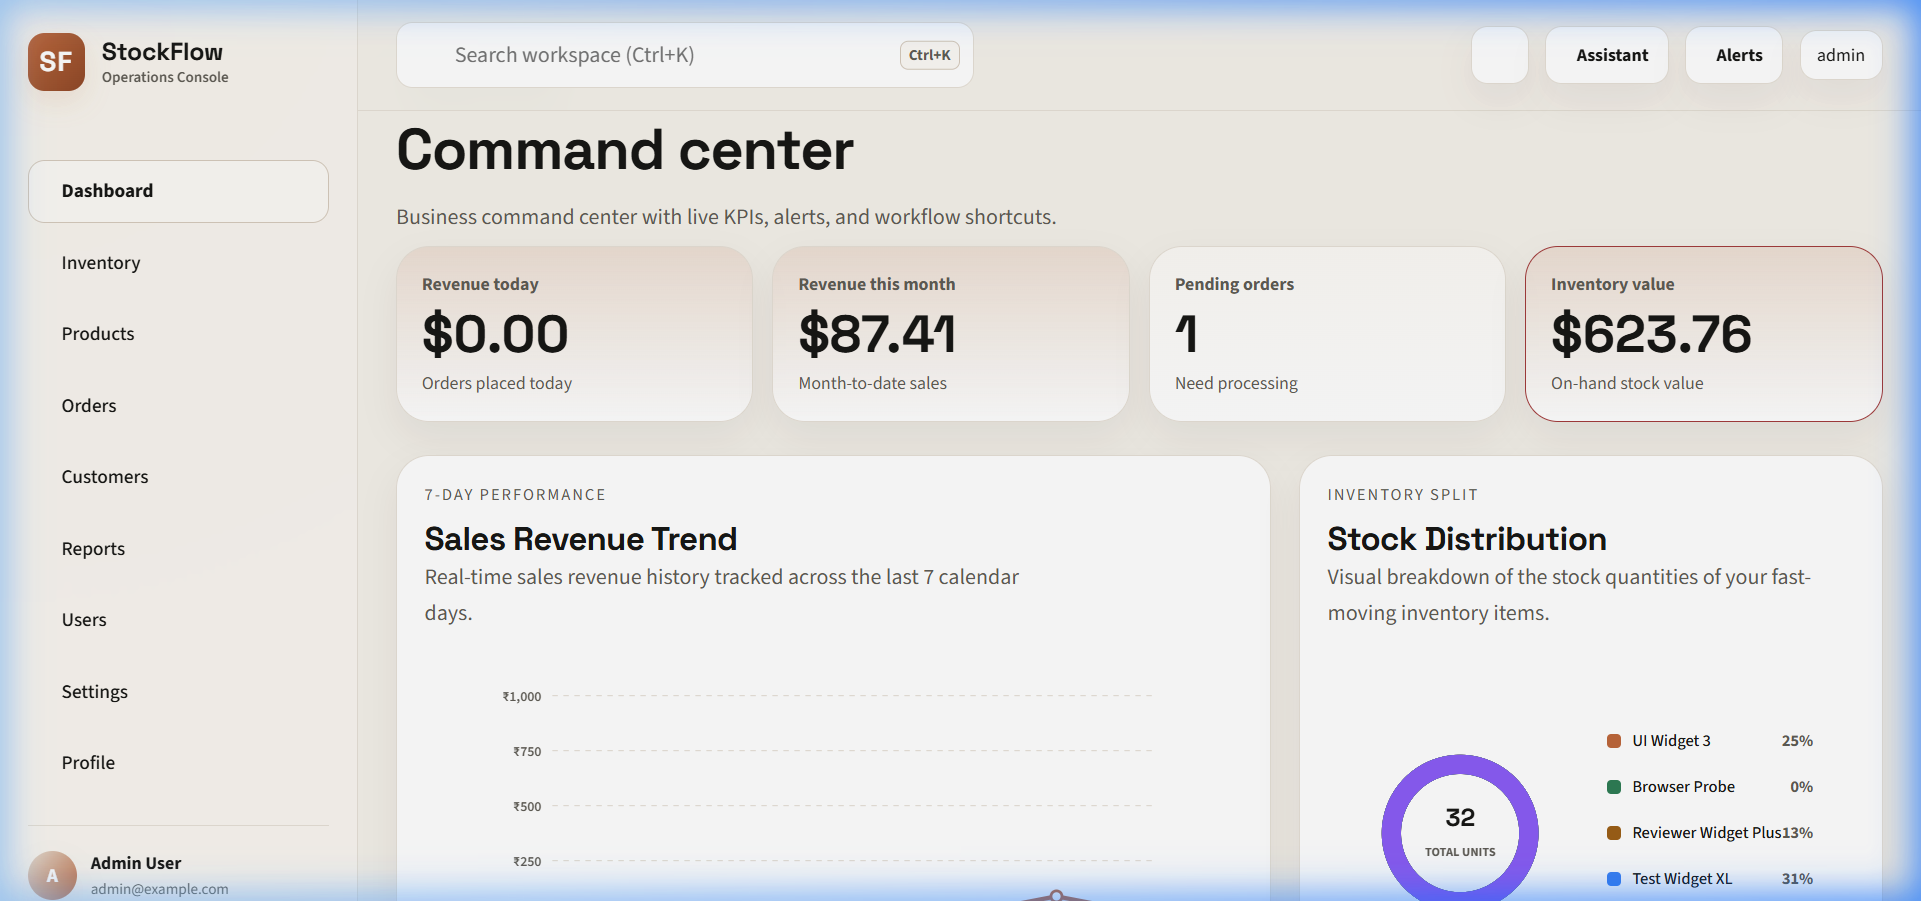
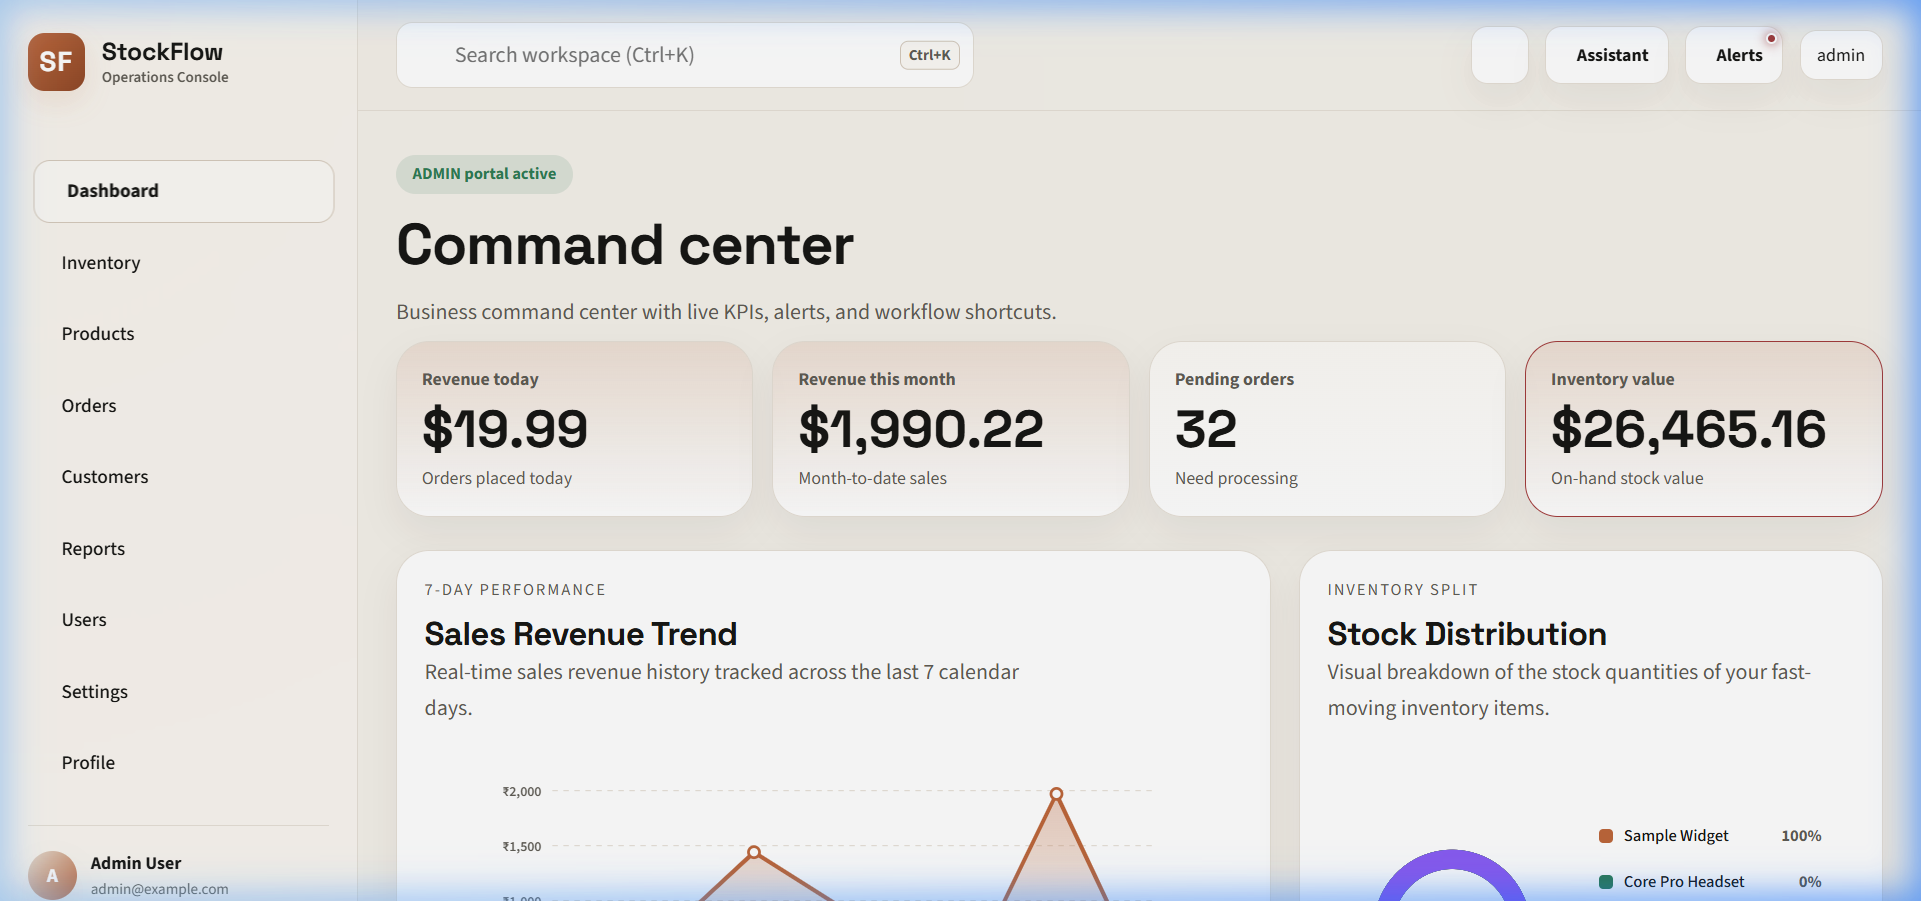
feat: complete single-command Docker deployment refactoring with automatic seeder and timeline crash fix

diff --git a/frontend/src/AppSaaS.jsx b/frontend/src/AppSaaS.jsx
@@ -1635,17 +1635,17 @@ export default function AppSaaS() {
                   {activityLogs.slice(0, 8).map((log) => (
                     <div key={log.id} className="line-item" style={{ padding: "12px", border: "1px solid var(--border)", borderRadius: "12px", background: "var(--surface-soft)", display: "flex", justifyContent: "space-between", alignItems: "center" }}>
                       <div>
-                        <strong style={{ fontSize: "13px", color: "var(--text)" }}>{log.action.replace(/_/g, ' ').toUpperCase()}</strong>
+                        <strong style={{ fontSize: "13px", color: "var(--text)" }}>{(log.event || log.action || "Event").replace(/_/g, ' ').toUpperCase()}</strong>
                         <p style={{ margin: "2px 0 0", color: "var(--muted)", fontSize: "12px" }}>{log.details}</p>
                         <small style={{ color: "var(--muted)", fontSize: "10px", opacity: 0.8 }}>
-                          Performed by User #{log.user_id} · {new Date(log.created_at).toLocaleString()}
+                          System Event · {new Date(log.created_at).toLocaleString()}
                         </small>
                       </div>
                       <Badge tone={
-                        log.action.includes("create") ? "success" :
-                        log.action.includes("delete") ? "danger" : "warning"
+                        (log.event || log.action || "").toLowerCase().includes("create") || (log.event || log.action || "").toLowerCase().includes("seed") || (log.event || log.action || "").toLowerCase().includes("init") ? "success" :
+                        (log.event || log.action || "").toLowerCase().includes("delete") || (log.event || log.action || "").toLowerCase().includes("cancel") ? "danger" : "warning"
                       }>
-                        {log.action.split("_")[0]}
+                        {(log.event || log.action || "Activity").split(" ")[0]}
                       </Badge>
                     </div>
                   ))}

diff --git a/backend/app/main.py b/backend/app/main.py
@@ -34,7 +34,21 @@ def create_app() -> FastAPI:
 
     @app.on_event("startup")
     async def _seed_demo_users() -> None:
+        from sqlalchemy import select, func
+        from app.db.models import Product
+        from app.db.session import get_sessionmaker
+        from app.db.seed import generate_large_demo_dataset
+        
+        # 1. Seed base users and sample widgets first
         await seed_demo_data()
+        
+        # 2. Check if product database is empty to trigger full V3 seeder automatically
+        sessionmaker = get_sessionmaker()
+        async with sessionmaker() as db:
+            product_count = await db.scalar(select(func.count(Product.id)))
+            # If database has no products (or only the single base sample-widget), run full generation
+            if product_count is None or product_count <= 1:
+                await generate_large_demo_dataset(db)
 
     return app
 

diff --git a/README.md b/README.md
@@ -301,22 +301,26 @@ flowchart LR
 
 ## 🚀 11. Deployment Guide
 
-### Local Setup in 3 Steps
-1.  **Clone Repo & Initialize Environment Variables**:
-    ```bash
-    git clone https://github.com/Anubothu-Aravind/Containerized-Inventory-And-Order-Management-System
-    cd Containerized-Inventory-And-Order-Management-System
-    cp .env.example .env
-    ```
-2.  **Start Services**:
-    ```bash
-    docker compose up --build -d
-    ```
-3.  **Hydrate Demo Data**:
-    Log in as **Admin** and press `Ctrl+K`, type `/reseed` and press enter, or trigger seeding using curl:
-    ```bash
-    curl -X POST http://localhost:8000/admin/generate-demo-data
-    ```
+### Local Setup in a Single Command
+
+StockFlow V3 is engineered with built-in database creation checks, automatic schema migrations, and instant demo data seeding. A reviewer only needs to execute a **single command** to fully boot and access the platform.
+
+1. **Clone and Navigate**:
+   ```bash
+   git clone https://github.com/Anubothu-Aravind/Containerized-Inventory-And-Order-Management-System
+   cd Containerized-Inventory-And-Order-Management-System
+   ```
+
+2. **Boot the Platform**:
+   ```bash
+   docker compose up --build
+   ```
+
+*Everything else is handled automatically!* On container launch:
+- The PostgreSQL service initializes and performs a healthy check.
+- The backend service waits for the healthy database, executes all Alembic schema upgrades to head, and starts the FastAPI server.
+- The startup event verifies if the database is empty, and automatically hydrates a dynamic 30-day historical dataset consisting of **50 products**, **20 customers**, and **100 orders** (including notifications and log timeline streams) so you immediately have rich data to evaluate.
+- The frontend Vite client automatically compiles static assets and connects using default container network parameters.
 
 ---
 
